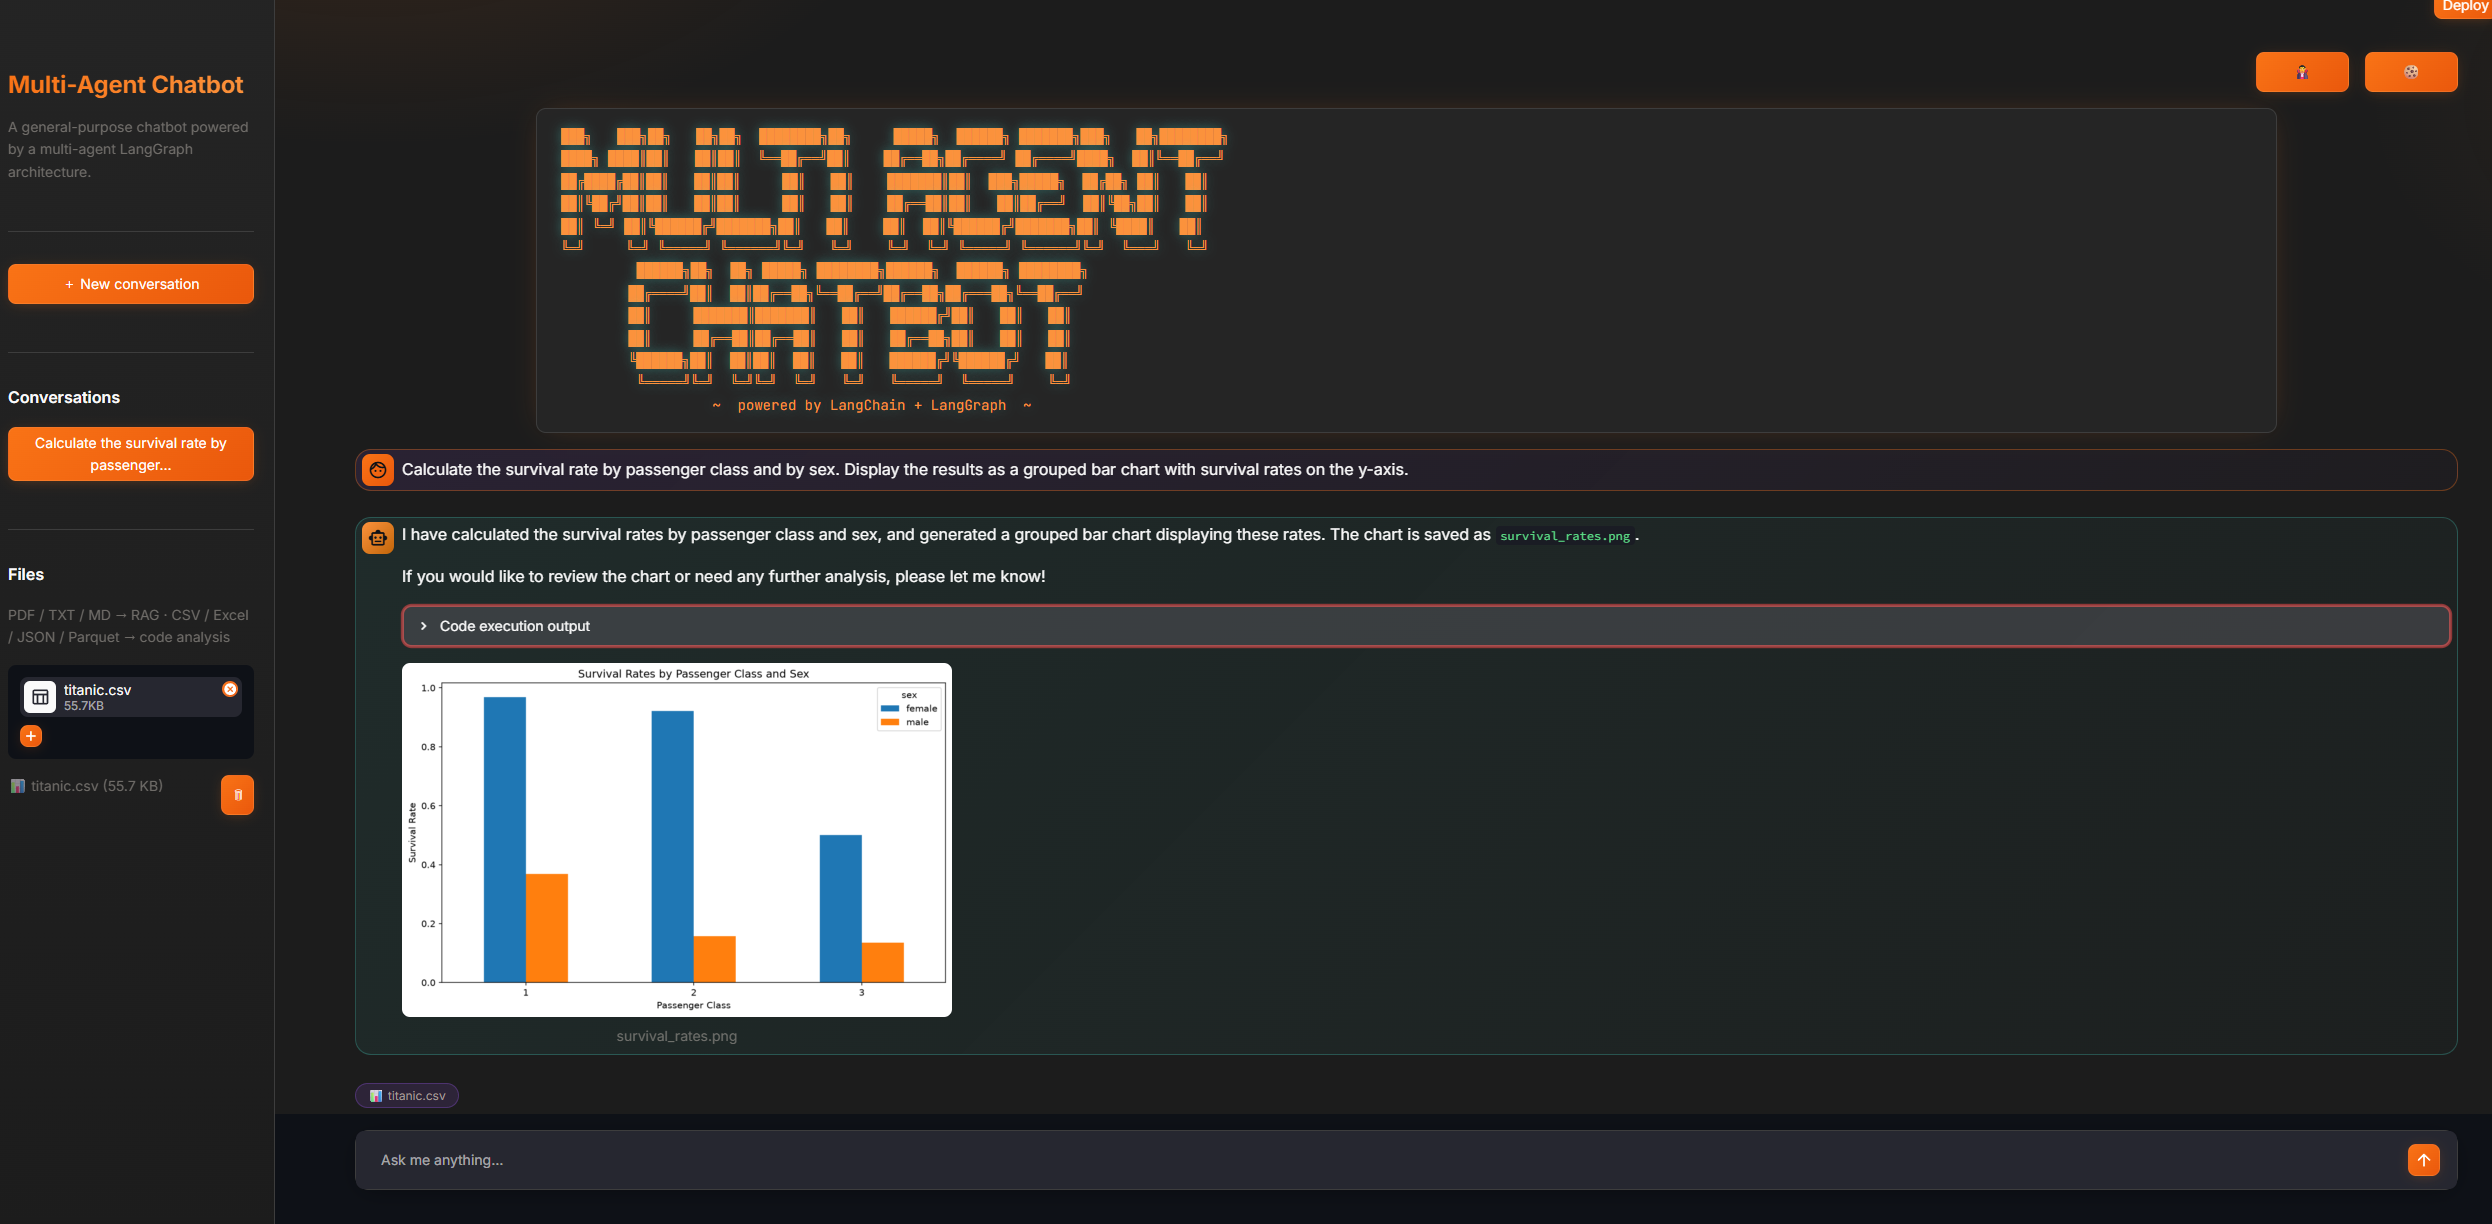
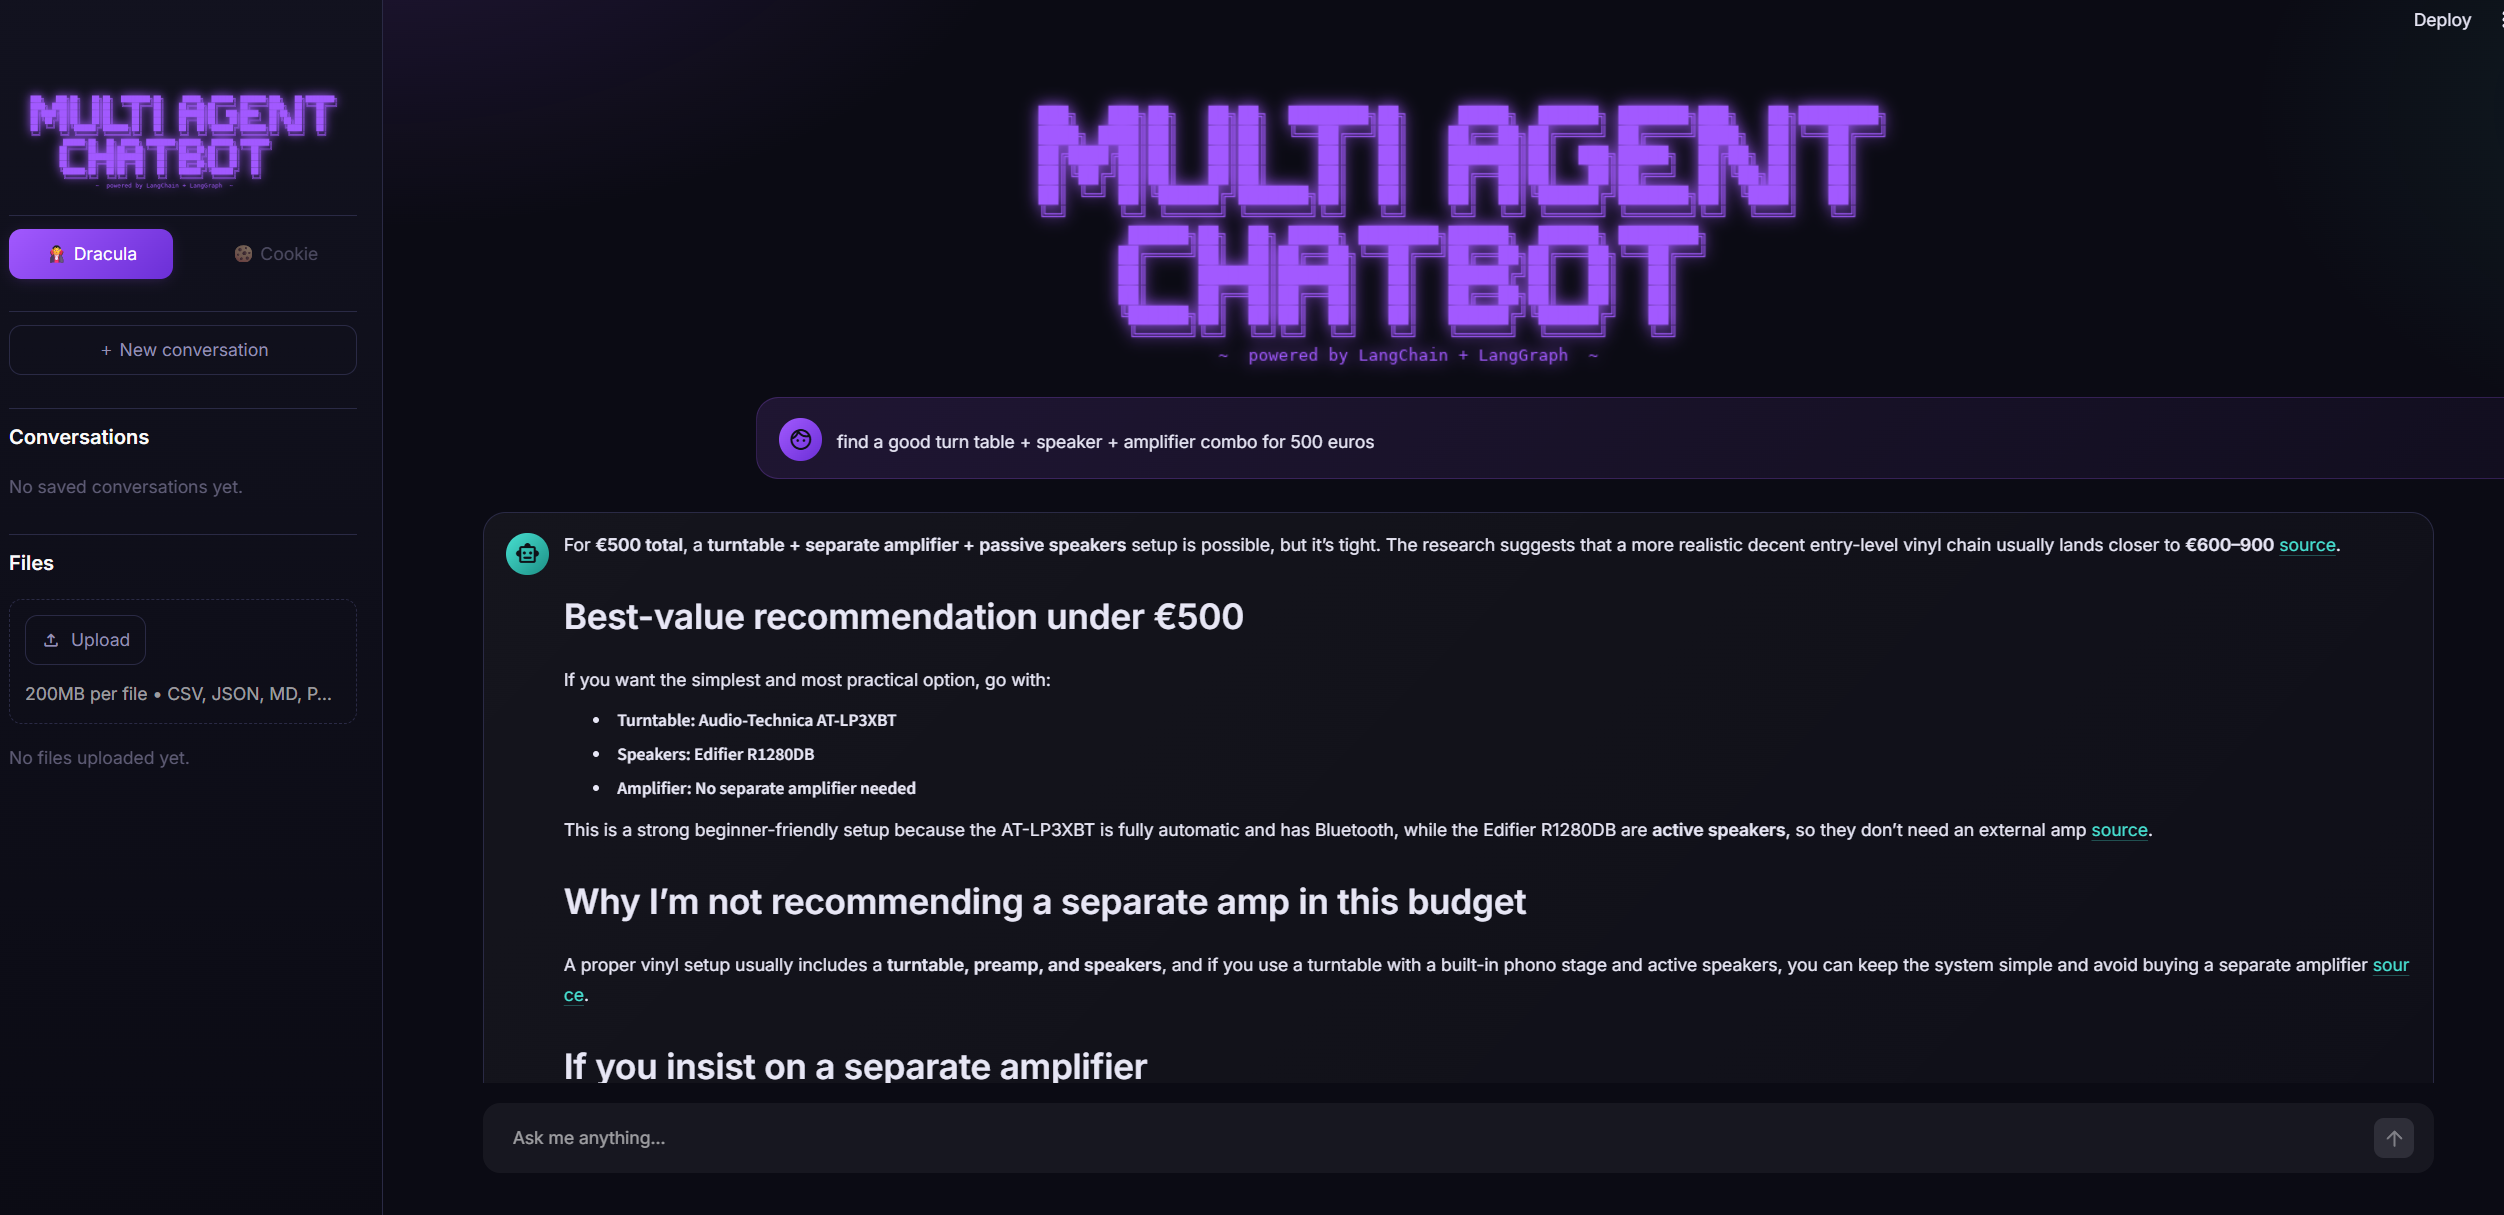
integrated dynamic supervisor agent and refined UI

diff --git a/ui/style.css b/ui/style.css
@@ -26,10 +26,13 @@ html, body,
 .stApp,
 [data-testid="stAppViewContainer"],
 [data-testid="stMainBlockContainer"],
-[data-testid="stBottom"],
-[data-testid="stBottomBlockContainer"],
 [data-testid="stHeader"] {
     background: transparent !important;
+}
+
+[data-testid="stBottom"],
+[data-testid="stBottomBlockContainer"] {
+    background: var(--mac-bg) !important;
 }
 
 .stApp {
@@ -148,21 +151,50 @@ p, span, div, label {
     filter: drop-shadow(0 0 6px var(--mac-violet));
 }
 
-/* ── Chat input ──────────────────────────────────────────── */
-[data-testid="stChatInput"] {
-    background: var(--mac-panel) !important;
-    border: 1px solid var(--mac-border) !important;
-    border-radius: 14px !important;
-    box-shadow: 0 4px 24px -8px rgba(0,0,0,0.5) !important;
-    backdrop-filter: blur(8px) !important;
+/* Sidebar banner: smaller padding, scaled to fit */
+[data-testid="stSidebar"] .mac-banner-wrap {
+    padding: 0.5rem 0 0.25rem;
 }
-[data-testid="stChatInput"]:focus-within {
-    border-color: var(--mac-violet) !important;
-    box-shadow: 0 0 0 3px var(--mac-violet-soft) !important;
+
+[data-testid="stSidebar"] .mac-banner-img {
+    max-width: 90%;
+    filter: drop-shadow(0 0 4px var(--mac-violet));
+}
+
+/* ── Chat input ──────────────────────────────────────────── */
+[data-testid="stChatInput"],
+[data-testid="stChatInput"] *:not(button):not(svg):not(path) {
+    border: none !important;
+    outline: none !important;
+    box-shadow: none !important;
+    background: transparent !important;
+}
+[data-testid="stChatInput"] {
+    background: rgba(255,255,255,0.05) !important;
+    border-radius: 14px !important;
+    backdrop-filter: blur(8px) !important;
 }
 [data-testid="stChatInput"] textarea {
     color: var(--mac-text) !important;
     font-family: 'Inter', sans-serif !important;
+}
+
+/* ── File uploader (sidebar) ─────────────────────────────── */
+[data-testid="stSidebar"] [data-testid="stFileUploader"] {
+    background: transparent !important;
+    border: none !important;
+    box-shadow: none !important;
+    padding: 0 !important;
+}
+[data-testid="stSidebar"] [data-testid="stFileUploaderDropzone"] {
+    background: transparent !important;
+    border: 1px dashed var(--mac-border) !important;
+    border-radius: 10px !important;
+    box-shadow: none !important;
+}
+[data-testid="stSidebar"] [data-testid="stFileUploaderDropzone"]:hover {
+    border-color: var(--mac-violet) !important;
+    background: rgba(162,89,255,0.04) !important;
 }
 
 /* ── Chat messages ───────────────────────────────────────── */
@@ -177,12 +209,11 @@ p, span, div, label {
     border: none;
 }
 
-/* USER: right-side bubble */
+/* USER: right-side bubble — avatar stays on left, bubble indented to the right */
 [data-testid="stChatMessage"]:has([data-testid="stChatMessageAvatarUser"]) {
-    flex-direction: row-reverse;
     background: linear-gradient(135deg, rgba(162,89,255,0.13), rgba(162,89,255,0.04));
     border: 1px solid rgba(162,89,255,0.22);
-    margin-left: 8%;
+    margin-left: 14%;
 }
 
 /* ASSISTANT: left-side bubble */

diff --git a/src/agents/nodes/web_searcher.py b/src/agents/nodes/web_searcher.py
@@ -1,5 +1,6 @@
 import os
 from typing import Any, Dict
+from urllib.parse import urlparse
 
 import httpx
 from loguru import logger
@@ -8,9 +9,17 @@ from tavily import TavilyClient
 from src.agents.agents import web_searcher_agent
 from src.agents.nodes._common import NO_SEARCH_RESULTS
 from src.agents.state import GraphState
-from src.agents.utils import dedup_urls
+from src.agents.utils import dedup_urls, format_history
 
 tavily_client = TavilyClient(api_key=os.environ.get("TAVILY_API_KEY"))
+
+
+def _favicon_url(url: str) -> str:
+    try:
+        domain = urlparse(url).netloc
+        return f"https://www.google.com/s2/favicons?domain={domain}&sz=32"
+    except Exception:
+        return ""
 
 
 def _summarize_search_error(error: Exception) -> str:
@@ -36,12 +45,14 @@ def web_searcher_node(state: GraphState) -> Dict[str, Any]:
     """Generates a search query and executes it via Tavily."""
     question = state.get("question", "")
     plan = state.get("plan", "")
+    history = format_history(state.get("messages", []), state.get("summary", ""))
 
-    search_query = web_searcher_agent.invoke({"question": question, "plan": plan})
+    search_query = web_searcher_agent.invoke({"question": question, "plan": plan, "history": history})
     logger.info(f"Web Searcher generated query: {search_query}")
 
     results = []
     urls = []
+    cards = []
     search_status = "ok"
     search_error = ""
     try:
@@ -49,6 +60,12 @@ def web_searcher_node(state: GraphState) -> Dict[str, Any]:
         for r in response.get("results", []):
             results.append(f"Title: {r['title']}\nURL: {r['url']}\nContent: {r['content']}\n")
             urls.append(r['url'])
+            cards.append({
+                "title": r.get("title", ""),
+                "url": r["url"],
+                "snippet": r.get("content", "")[:200],
+                "favicon_url": _favicon_url(r["url"]),
+            })
         search_results = "\n---\n".join(results) if results else NO_SEARCH_RESULTS
         if not results:
             search_status = "empty"
@@ -59,10 +76,12 @@ def web_searcher_node(state: GraphState) -> Dict[str, Any]:
         search_results = f"(web search unavailable: {search_error})"
 
     logger.info(f"Web Searcher found {len(results)} results")
+    existing_cards = state.get("web_result_cards", [])
     return {
         "search_results": search_results,
         "search_status": search_status,
         "search_error": search_error,
         "cited_urls": dedup_urls(state.get("cited_urls", []) + urls),
+        "web_result_cards": existing_cards + cards,
         "executed_agents": state.get("executed_agents", []) + ['web_searcher'],
     }

diff --git a/src/tasks.py b/src/tasks.py
@@ -58,6 +58,7 @@ def process_chat_task(prompt: str, thread_id: str = "default") -> dict:
         "code_files": reply.get("code_files", []),
         "code_run_id": reply.get("code_run_id", ""),
         "code_result": reply.get("code_result", ""),
+        "web_result_cards": reply.get("web_result_cards", []),
     }
 
     # Persist both messages — best-effort; a DB error must never fail the task.
@@ -90,6 +91,7 @@ def process_chat_task(prompt: str, thread_id: str = "default") -> dict:
             code_run_id=result["code_run_id"] or None,
             code_files=result["code_files"] or None,
             code_result=result["code_result"] or None,
+            web_result_cards=result["web_result_cards"] or None,
             message_index=existing + 1,
         )
     except Exception as db_err:

diff --git a/src/agents/ci_agent.py b/src/agents/ci_agent.py
@@ -43,6 +43,7 @@ class CIAgent:
                 "code_files": event.get("code_files", []),
                 "code_run_id": event.get("code_run_id", ""),
                 "code_result": event.get("code_result", ""),
+                "web_result_cards": event.get("web_result_cards", []),
             }
         except Exception as e:
             logger.exception(f"[thread_id={thread_id}] Error during agent execution")

diff --git a/app.py b/app.py
@@ -142,8 +142,7 @@ def _reset_conversation() -> None:
 # --- UI ---------------------------------------------------------------------
 def _render_sidebar() -> None:
     with st.sidebar:
-        st.title("Multi-Agent Chatbot")
-        st.caption(SUBTITLE)
+        _render_banner()
         st.divider()
 
         # Theme toggle

diff --git a/ui/display_utils/sources.py b/ui/display_utils/sources.py
@@ -221,7 +221,6 @@ def render_file_strip(thread_id: str) -> None:
     with st.sidebar:
         st.divider()
         st.markdown("**Files**")
-        st.caption("PDF / TXT / MD → RAG  ·  CSV / Excel / JSON / Parquet → code analysis")
 
         uploaded = st.file_uploader(
             "Upload files",

diff --git a/src/agents/llm.py b/src/agents/llm.py
@@ -31,6 +31,7 @@ OLLAMA_BASE_URL = os.environ.get("OLLAMA_BASE_URL", "http://localhost:11434")
 #--- OpenAI (cloud) ---
 llm = ChatOpenAI(
     api_key=os.environ["OPENAI_API_KEY"],
-    model="gpt-4o-mini",
+    #model="gpt-4o-mini",
+    model="gpt-5.4-mini",
     http_client=httpx.Client(verify=False),
 )
